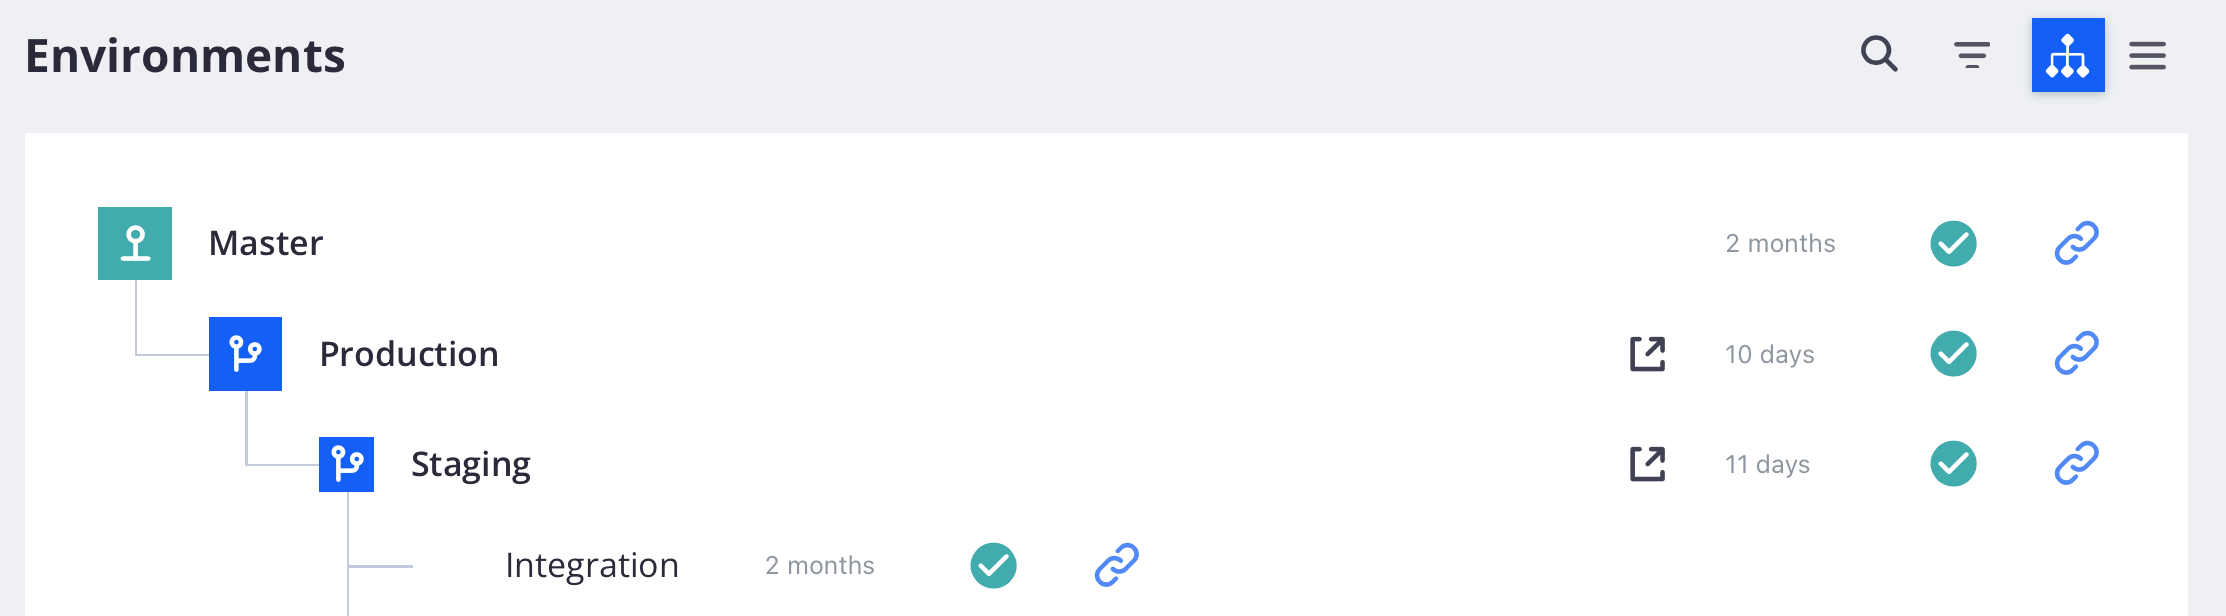
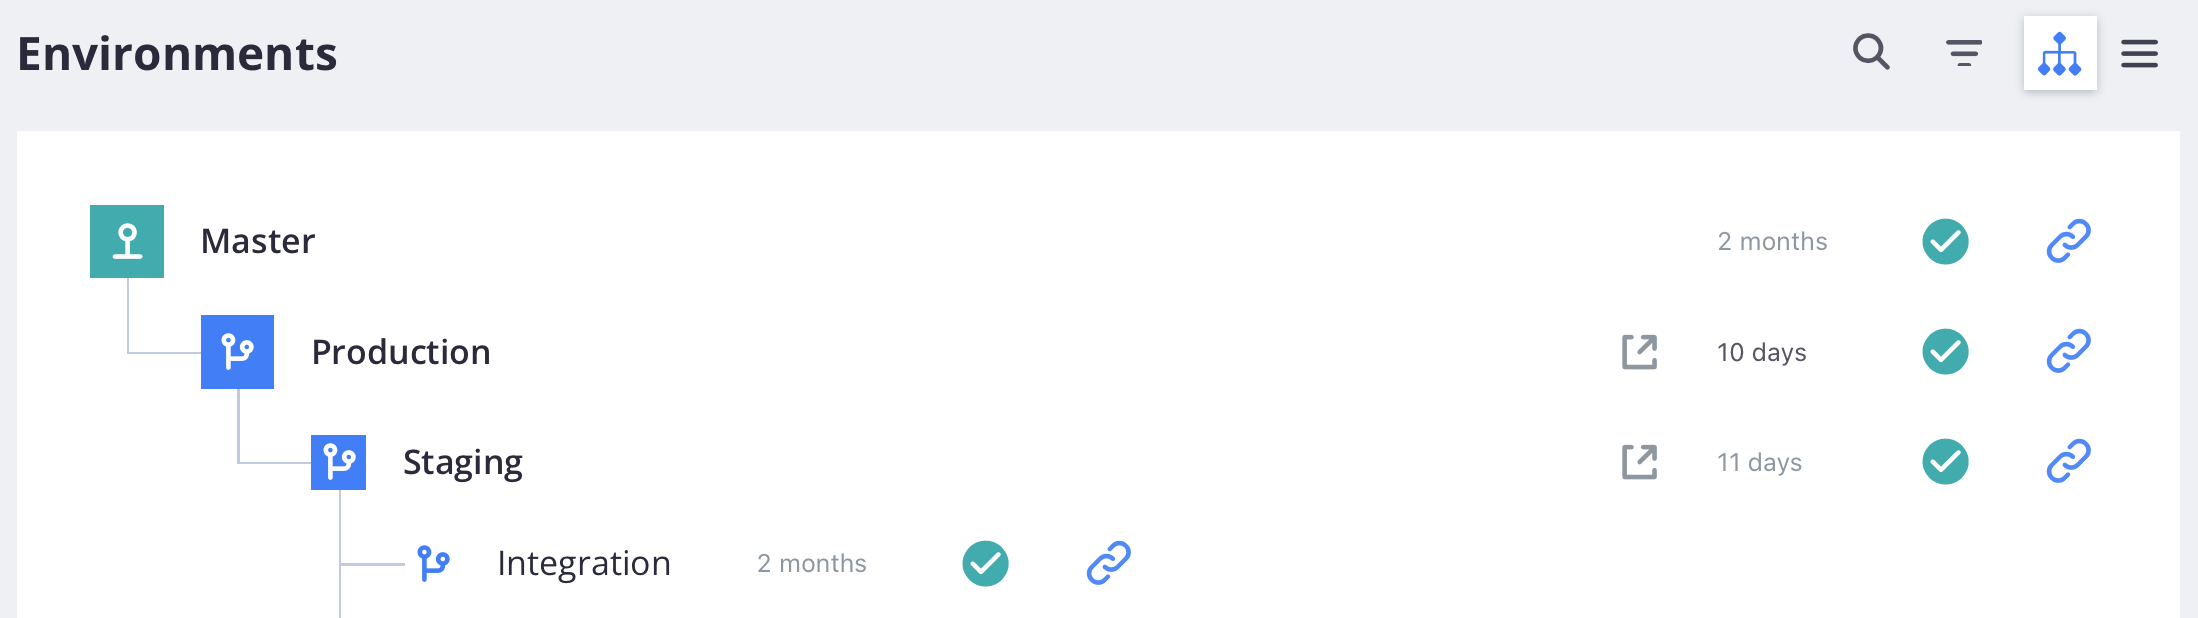
fix image, active env shows now

diff --git a/help/cloud-guide/project/activity-stream.md b/help/cloud-guide/project/activity-stream.md
@@ -58,7 +58,7 @@ The ability to filter the activity list is useful when you are looking for somet
 
 1. Select an environment and choose the Activity **[!UICONTROL All]** view to include the full event history.
 
-1. Click ![Filter by](../../assets/icon-filterby.png) and select the **[!UICONTROL Filter by]** options:
+1. Click ![Filter by](../../assets/icon-filterby.png){width="32"} and select the **[!UICONTROL Filter by]** options:
 
    ![Filter activities](../../assets/activity-filter.png)
 
